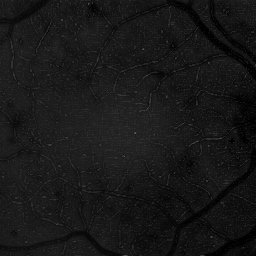
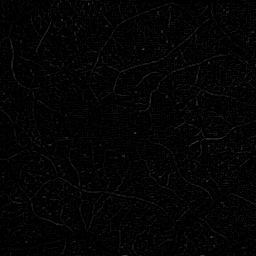
question2

diff --git a/tp_morpho.py b/tp_morpho.py
@@ -177,7 +177,7 @@ im=skio.imread('Images/retina2.gif')
 #im=skio.imread('Images/laiton.bmp')
 import os
 plt.imshow(im,cmap="gray")
-
+"""
 # viewimage(im) - Utilisable à la place de plt.imshow si Gimp est installé.
 #dilatation
 elmnts=['disk','diamond','square','line']
@@ -227,10 +227,307 @@ for img in images:
         plt.title(f"closing , element " + str(elt) + ',size:' + str(t))
         cpt+=1
     plt.savefig("question1/"+img[:-4]+".png")
+"""
+#preuve des propriete
+#Dilatation
+#1
+img=skio.imread('Images/cellbin.bmp')
+dilatation=gris_depuis_couleur(skio.imread('dilatation/cellbin_disk_5.png'))
+x=np.zeros((dilatation.shape[0],dilatation.shape[1],3))
+for i in range(dilatation.shape[0]):
+    for j in range(dilatation.shape[1]):
+        if dilatation[i,j]==255:
+            if img[i,j]==255:
+                x[i,j]=(255,255,255)
+            else:
+                x[i,j]=(255,0,0)
+
+plt.subplot(1,3,1)
+plt.imshow(img,cmap="gray")
+plt.title("original")
+plt.subplot(1,3,2)
+plt.imshow(dilatation,cmap="gray")
+plt.title("dilatation")
+plt.subplot(1,3,3)
+plt.imshow(x)
+plt.title("inclusion")
+plt.savefig("extensive.png")
+
+x=dilatation-img
+print("valeur de dilatation-image positive:",(x>=0).any())
+
+#2
+X=skio.imread("Question2/cellbin.bmp")
+Y=skio.imread("Question2/cellbin2.bmp")
+se = strel("disk", 3)
+plt.figure(figsize=(10,10))
+plt.subplot(2,2,1)
+plt.imshow(X,cmap='gray')
+plt.title("X")
+plt.subplot(2,2,2)
+plt.imshow(morpho.dilation(X,se),cmap='gray')
+plt.title("dilatation(X,B)")
+plt.subplot(2,2,3)
+plt.imshow(Y,cmap='gray')
+plt.title("Y")
+plt.subplot(2,2,4)
+plt.imshow(morpho.dilation(Y,se),cmap='gray')
+plt.title("dilatation(Y,B)")
+plt.savefig("question2.png")
+
+x=morpho.dilation(Y,se)-morpho.dilation(X,se)
+print("valeur de morpho.dilation(Y,se)-morpho.dilation(X,se) positive:",(x>=0).any())
+
+#3
+se = strel("disk", 3)
+se2 = strel("disk", 5)
+
+X1=morpho.dilation(Y,se)
+X2=morpho.dilation(Y,se2)
+res=np.zeros((X1.shape[0],X1.shape[1],3))
+for i in range(X1.shape[0]):
+    for j in range(X.shape[1]):
+        if X2[i,j]==255:
+            if X1[i,j]==255:
+                res[i,j]=(255,255,255)
+            else:
+                res[i,j]=(255,0,0)
+plt.subplot(1,4,1)
+plt.imshow(Y,cmap='gray')
+plt.title("X")
+plt.subplot(1,4,2)
+plt.imshow(X1,cmap='gray')
+plt.title("D(X,B)")
+plt.subplot(1,4,3)
+plt.imshow(X2,cmap='gray')
+plt.title("D(X,B')")
+plt.subplot(1,4,4)
+plt.imshow(res,cmap='gray')
+plt.title("inclusion")
+plt.savefig("question3.png")
+print("\n\n\n")
+
+x=X2-X1
+print("valeur de morpho.dilation(X,se)-morpho.dilation(X,se2) positive:",(x>=0).any())
+
+print("\n\n\n")
 
 
-
+#4
+X=skio.imread("Question2/cellbin.bmp")
+U=skio.imread("Question2/cellbin2.bmp")
+Y=U-X
+plt.figure()
+plt.subplot(1,3,1)
+plt.imshow(X,cmap="gray")
+plt.title("X")
+plt.subplot(1,3,2)
+plt.imshow(Y,cmap="gray")
+plt.title("Y")
+plt.subplot(1,3,3)
+plt.imshow(U,cmap="gray")
+plt.title("X U Y")
+plt.savefig("input_question4.png")
 imt=im.copy()
+plt.figure()
+plt.subplot(1,4,1)
+plt.imshow(morpho.dilation(X,se),cmap="gray")
+plt.title("D(X,B)")
+plt.subplot(1,4,2)
+plt.imshow(morpho.dilation(Y,se),cmap="gray")
+plt.title("D(Y,B)")
+plt.subplot(1,4,3)
+plt.imshow(morpho.dilation(X,se)+morpho.dilation(Y,se),cmap="gray")
+plt.title("D(X,B)UD(Y,B)")
+plt.subplot(1,4,4)
+plt.imshow(morpho.dilation(U,se),cmap="gray")
+plt.title("D(XUY,B)")
+plt.savefig("question4.png")
+
+print("test d'egalité entre les deux images:",np.equal(morpho.dilation(U,se),morpho.dilation(X,se)+morpho.dilation(Y,se)).any())
+
+X=skio.imread("Question2/cellbin.bmp")
+Y=skio.imread("Question2/cellbin3.bmp")
+inter=np.zeros(Y.shape)
+for i in range(X.shape[0]):
+    for j in range(Y.shape[1]):
+        if X[i,j]==Y[i,j]:
+          if X[i,j]!=0:
+            inter[i,j]=255
+z1=morpho.dilation(X,se)
+z2=morpho.dilation(Y,se)
+inter2=np.zeros(X.shape)
+for i in range(X.shape[0]):
+    for j in range(Y.shape[1]):
+        if z1[i,j]==z2[i,j]:
+          if z1[i,j]!=0:
+            inter2[i,j]=255
+plt.figure(figsize=(10,5))
+plt.subplot(1,4,1)
+plt.imshow(z1,cmap="gray")
+plt.title("D(X,B)")
+plt.subplot(1,4,2)
+plt.imshow(z2,cmap="gray")
+plt.title("D(Y,B)")
+plt.subplot(1,4,3)
+plt.imshow(morpho.dilation(inter,se),cmap="gray")
+plt.title("D(X inter Y,B)")
+plt.subplot(1,4,4)
+plt.imshow(inter2,cmap="gray")
+plt.title("D(X,B) inter D(Y,B)")
+plt.savefig("input_question42res.png")
+
+print("\n\n\n\ntest inclusion:",((inter2-morpho.dilation(inter,se)>=0)).any())
+
+X=skio.imread("Images/cellbin.bmp")
+se=strel("square",3)
+se2=strel("square",5)
+se3=strel("square",7)
+plt.subplot(1,2,1)
+plt.imshow(morpho.dilation(morpho.dilation(X,se),se2),cmap="gray")
+plt.title("D(D(X,B'),B)")
+plt.subplot(1,2,2)
+plt.imshow(morpho.dilation(X,se3),cmap="gray")
+plt.title("D(X,B+B')")
+
+print("D(X,B+B')=D(D(X,B'),B):",(morpho.dilation(morpho.dilation(X,se),se2)==morpho.dilation(X,se3)).any())
+
+plt.savefig("question5.png")
+#erosion
+
+X=skio.imread("Images/laiton.bmp")
+comp=255-X
+plt.subplot(2,4,1)
+plt.imshow(X,cmap="gray",vmin=0,vmax=255)
+plt.title("X")
+plt.subplot(2,4,2)
+plt.imshow(comp,cmap="gray",vmin=0,vmax=255)
+plt.title("255-X")
+plt.subplot(2,4,3)
+plt.imshow(morpho.dilation(comp,se),cmap="gray",vmin=0,vmax=255)
+plt.title("D(255-X,B)")
+plt.subplot(2,4,4)
+plt.imshow(255-morpho.dilation(comp,se),cmap="gray",vmin=0,vmax=255)
+plt.title("255-D(255-X,B)")
+plt.subplot(2,4,5)
+plt.imshow(X,cmap="gray")
+plt.title("X")
+plt.subplot(2,4,6)
+plt.imshow(morpho.erosion(X,se),cmap="gray",vmin=0,vmax=255)
+plt.title("E(X,B)")
+plt.savefig("erosionquestion1.png")
+
+##2
+Y=morpho.erosion(X,se)
+plt.subplot(1,2,1)
+plt.imshow(Y,cmap="gray",vmin=0,vmax=255)
+plt.subplot(1,2,2)
+plt.imshow(X,cmap="gray",vmin=0,vmax=255)
+plt.savefig("question2ero.png")
+
+print("\n\nanti-extensivité: ",((X-Y)>=0).any())
+#3
+X=skio.imread("Question2/cellbin.bmp")
+Y=skio.imread("Question2/cellbin2.bmp")
+
+se = strel("disk", 3)
+plt.figure(figsize=(10,10))
+plt.subplot(2,2,1)
+plt.imshow(X,cmap='gray')
+plt.title("X")
+plt.subplot(2,2,2)
+plt.imshow(morpho.erosion(X,se),cmap='gray')
+plt.title("E(X,B)")
+plt.subplot(2,2,3)
+plt.imshow(Y,cmap='gray')
+plt.title("Y")
+plt.subplot(2,2,4)
+plt.imshow(morpho.erosion(Y,se),cmap='gray')
+plt.title("E(Y,B)")
+plt.savefig("question2Ero.png")
+
+
+x=morpho.erosion(Y,se)-morpho.erosion(X,se)
+print("valeur de E(Y,se)-E(X,se) positive:",(x>=0).any())
+
+#3
+se = strel("disk", 3)
+se2 = strel("disk", 5)
+
+X1=morpho.erosion(Y,se)
+X2=morpho.erosion(Y,se2)
+res=np.zeros((X1.shape[0],X1.shape[1],3))
+for i in range(X1.shape[0]):
+    for j in range(X.shape[1]):
+        if X1[i,j]==255:
+            if X2[i,j]==255:
+                res[i,j]=(255,255,255)
+            else:
+                res[i,j]=(255,0,0)
+plt.subplot(1,4,1)
+plt.imshow(Y,cmap='gray')
+plt.title("X")
+plt.subplot(1,4,2)
+plt.imshow(X1,cmap='gray')
+plt.title("E(X,B)")
+plt.subplot(1,4,3)
+plt.imshow(X2,cmap='gray')
+plt.title("E(X,B')")
+plt.subplot(1,4,4)
+plt.imshow(res,cmap='gray')
+plt.title("inclusion")
+plt.savefig("question3ero.png")
+print("\n\n\n")
+
+x=X1-X2
+print("valeur de morpho.erosion(X,B)-morpho.erosion(X,B') positive:",(x>=0).any())
+
+#5
+X=skio.imread("Question2/cellbin.bmp")
+Y=skio.imread("Question2/cellbin3.bmp")
+inter=np.zeros(Y.shape)
+for i in range(X.shape[0]):
+    for j in range(Y.shape[1]):
+        if X[i,j]==Y[i,j]:
+          if X[i,j]!=0:
+            inter[i,j]=255
+z1=morpho.erosion(X,se)
+z2=morpho.erosion(Y,se)
+un=X+Y
+UN2=z1+z2
+plt.figure(figsize=(10,5))
+plt.subplot(1,4,1)
+plt.imshow(z1,cmap="gray")
+plt.title("E(X,B)")
+plt.subplot(1,4,2)
+plt.imshow(z2,cmap="gray")
+plt.title("E(Y,B)")
+plt.subplot(1,4,3)
+plt.imshow(morpho.erosion(un,se),cmap="gray")
+plt.title("E(X U Y,B)")
+plt.subplot(1,4,4)
+plt.imshow(UN2,cmap="gray")
+plt.title("E(X,B) U E(Y,B)")
+plt.savefig("input_question4UNIOres.png")
+
+
+print("\n\n\n\ntest d'inclusion:",((morpho.erosion(un,se)-UN2)>=0).any())
+
+X=skio.imread("Images/cellbin.bmp")
+se=strel("square",3)
+se2=strel("square",5)
+se3=strel("square",7)
+plt.subplot(1,2,1)
+plt.imshow(morpho.erosion(morpho.erosion(X,se),se2),cmap="gray")
+plt.title("E(E(X,B'),B)")
+plt.subplot(1,2,2)
+plt.imshow(morpho.erosion(X,se3),cmap="gray")
+plt.title("E(X,B+B')")
+
+print("E(X,B+B')=E(E(X,B'),B):",(morpho.erosion(morpho.erosion(X,se),se2)==morpho.erosion(X,se3)).any())
+
+plt.savefig("question5ero.png")
+exit(0)
 N=5
 for k in range(N):
     se=strel('disk',k)

diff --git a/test.py b/test.py
@@ -8,8 +8,15 @@ img=skio.imread("Images/retina2.gif")
 lst=os.listdir("opening")
 if not os.path.exists("tophat2"):
     os.mkdir("tophat2")
+plt.figure(figsize=(20, 20), dpi=80)
+cpt=1
 for i in lst:
     if i.startswith("retina2"):
-        x=gris_depuis_couleur(skio.imread("closing/"+i))
+        x=gris_depuis_couleur(skio.imread("opening/"+i))
         tp=img-x
-        plt.imsave("tophat/"+i,tp,vmin=0,vmax=255,cmap="gray")
+        plt.subplot(4,4,cpt)
+        plt.title(i.replace("retina2","")[:-4])
+        plt.imshow(tp,vmin=0,vmax=255,cmap="gray")
+        cpt+=1
+
+plt.savefig("tophat.png")
